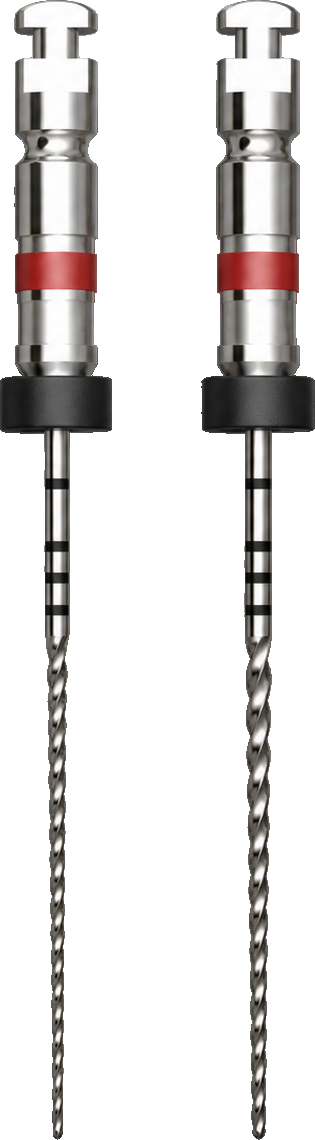
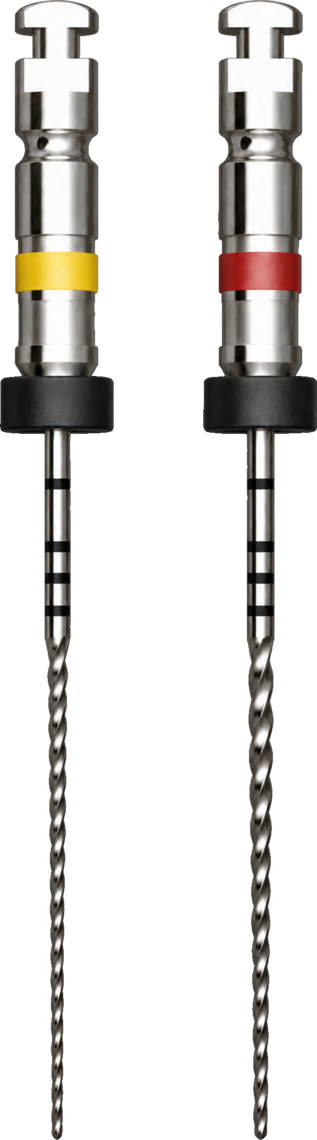
Refine Micro-Path range interaction and sizing

diff --git a/public/product-system-colour.css b/public/product-system-colour.css
@@ -49,15 +49,20 @@ main.et-stitch-page:has(.et-hero-image[alt*="RG"]){--system-a:#8f3341;--system-b
 .microPath-hero-size--15{border-top:3px solid #a45aa7!important}
 .microPath-hero-size--17{border-top:3px solid #d6bd2d!important}
 .microPath-hero-size--mb2{border-top:3px solid #5677b5!important}
-.microPath-hero-size--20{border-top:3px solid #4f9b90!important}
-.microPath-hero-size--25{border-top:3px solid #3f7f9f!important}
+.microPath-hero-size--20{border-top:3px solid #e4c527!important}
+.microPath-hero-size--25{border-top:3px solid #c84b4b!important}
 .microPath-hero-token{display:grid;justify-items:center;gap:8px}
 .microPath-hero-size-pair{display:flex;gap:10px}
 .microPath-hero-meta-note{margin:0;color:#667386;font:600 .68rem/1.2 Inter,"Segoe UI",sans-serif;text-align:center;letter-spacing:0}
 .microPath-hero-visual{position:relative!important}
-.clean-subpage .microPath-hero-visual::after{content:"";display:block!important;position:absolute!important;top:10%!important;right:3%!important;z-index:1;width:24%!important;height:76%!important;background:url("/assets/micropath-vtaper-20-25.png") center/contain no-repeat;pointer-events:none}
+.clean-subpage .microPath-hero-visual::after{content:"";display:block!important;position:absolute!important;top:18%!important;right:3%!important;z-index:1;width:24%!important;height:62%!important;background:url("/assets/micropath-vtaper-20-25.png") center/contain no-repeat;pointer-events:none}
+.clean-subpage .microPath-hero-visual::before{content:var(--file-label,"");display:flex!important;position:absolute!important;top:3%!important;left:var(--file-x,50%)!important;z-index:3;align-items:flex-start;justify-content:center;width:11%!important;height:88%!important;border:1px solid color-mix(in srgb,var(--file-accent,#6c9caf) 48%,transparent);border-radius:999px;padding-top:8px;background:radial-gradient(circle at 50% 34%,color-mix(in srgb,var(--file-accent,#6c9caf) 20%,transparent),transparent 58%),linear-gradient(180deg,color-mix(in srgb,var(--file-accent,#6c9caf) 13%,white),transparent 30% 72%,color-mix(in srgb,var(--file-accent,#6c9caf) 9%,transparent));box-shadow:0 18px 42px color-mix(in srgb,var(--file-accent,#6c9caf) 24%,transparent);color:#173c58;font:700 .66rem/1 Inter,"Segoe UI",sans-serif;letter-spacing:0;opacity:0;transform:translateX(-50%) scale(.94);transition:opacity .18s ease,transform .32s cubic-bezier(.22,1,.36,1);pointer-events:none}
+.clean-subpage .microPath-hero-visual[data-active-file]::before{opacity:1;transform:translateX(-50%) scale(1)}
+.microPath-hero-visual[data-active-file="13"]{--file-x:32.6%;--file-accent:#aeb7c2;--file-label:"13/.03"}.microPath-hero-visual[data-active-file="15"]{--file-x:43.6%;--file-accent:#a45aa7;--file-label:"15/.03"}.microPath-hero-visual[data-active-file="17"]{--file-x:54.5%;--file-accent:#d6bd2d;--file-label:"17/.03"}.microPath-hero-visual[data-active-file="mb2"]{--file-x:65.5%;--file-accent:#5677b5;--file-label:"MB2"}.microPath-hero-visual[data-active-file="20"]{--file-x:80%;--file-accent:#e4c527;--file-label:"20/.03"}.microPath-hero-visual[data-active-file="25"]{--file-x:91%;--file-accent:#c84b4b;--file-label:"25/.03"}
+.microPath-hero-size{cursor:pointer;transition:transform .22s cubic-bezier(.22,1,.36,1),box-shadow .22s ease,border-color .22s ease}.microPath-hero-size:hover,.microPath-hero-size:focus-visible,.microPath-hero-size.is-file-active{transform:translateY(-3px);box-shadow:0 10px 24px rgba(23,60,88,.13)!important;outline:none}
 @media(max-width:720px){.microPath-hero-meta{max-width:354px!important}.microPath-hero-token--paired{width:100%}.microPath-hero-size-pair{justify-content:center}}
-@media(max-width:800px){.clean-subpage .microPath-hero-visual::after{top:12%!important;right:1%!important;height:72%!important}}
+@media(max-width:800px){.clean-subpage .microPath-hero-visual::after{top:20%!important;right:1%!important;height:60%!important}.clean-subpage .microPath-hero-visual::before{top:7%!important;width:14%!important;height:82%!important;padding-top:6px;font-size:.58rem}.microPath-hero-visual[data-active-file="13"]{--file-x:35.4%}.microPath-hero-visual[data-active-file="15"]{--file-x:45.7%}.microPath-hero-visual[data-active-file="17"]{--file-x:56%}.microPath-hero-visual[data-active-file="mb2"]{--file-x:66.3%}.microPath-hero-visual[data-active-file="20"]{--file-x:81.7%}.microPath-hero-visual[data-active-file="25"]{--file-x:92.6%}}
+@media(prefers-reduced-motion:reduce){.microPath-hero-visual::before,.microPath-hero-size{transition:none!important}}
 .nz-micropath-media{max-width:none!important;padding:0!important;background:#fbf8fc!important}
 .nz-micropath-media>section{width:min(1120px,calc(100% - 48px));margin-inline:auto!important;padding-block:64px!important}
 .nz-micropath-media>section:nth-child(2){width:min(1120px,calc(100% - 48px));background:#fff!important;box-shadow:0 0 0 100vmax #fff;clip-path:inset(0 -100vmax)}

diff --git a/public/micropath-range-hover.js b/public/micropath-range-hover.js
@@ -1,0 +1,74 @@
+(() => {
+  const hero = document.querySelector('.microPath-hero');
+  const visual = document.querySelector('[data-micropath-hero-visual], [data-microPath-hero-visual]');
+  if (!(hero instanceof HTMLElement) || !(visual instanceof HTMLElement)) return;
+
+  const files = [
+    ['.microPath-hero-size--13', '13', '13/.03'],
+    ['.microPath-hero-size--15', '15', '15/.03'],
+    ['.microPath-hero-size--17', '17', '17/.03'],
+    ['.microPath-hero-size--mb2', 'mb2', 'MB2 15/.05'],
+    ['.microPath-hero-size--20', '20', '20/.03'],
+    ['.microPath-hero-size--25', '25', '25/.03'],
+  ].map(([selector, key, label]) => ({
+    element: hero.querySelector(selector),
+    key,
+    label,
+  })).filter(({ element }) => element instanceof HTMLElement);
+
+  let pinnedKey = '';
+
+  const show = (key) => {
+    visual.dataset.activeFile = key;
+    files.forEach(({ element, key: itemKey }) => {
+      const active = itemKey === key;
+      element.classList.toggle('is-file-active', active);
+      element.setAttribute('aria-pressed', active ? 'true' : 'false');
+    });
+  };
+
+  const restore = () => {
+    if (pinnedKey) {
+      show(pinnedKey);
+      return;
+    }
+    delete visual.dataset.activeFile;
+    files.forEach(({ element }) => {
+      element.classList.remove('is-file-active');
+      element.setAttribute('aria-pressed', 'false');
+    });
+  };
+
+  files.forEach(({ element, key, label }) => {
+    element.tabIndex = 0;
+    element.setAttribute('role', 'button');
+    element.setAttribute('aria-label', `Highlight the ${label} file above`);
+    element.setAttribute('aria-pressed', 'false');
+
+    element.addEventListener('pointerenter', () => show(key));
+    element.addEventListener('pointerleave', restore);
+    element.addEventListener('focus', () => show(key));
+    element.addEventListener('blur', restore);
+    element.addEventListener('click', () => {
+      pinnedKey = pinnedKey === key ? '' : key;
+      pinnedKey ? show(pinnedKey) : restore();
+    });
+    element.addEventListener('keydown', (event) => {
+      if (event.key === 'Enter' || event.key === ' ') {
+        event.preventDefault();
+        element.click();
+      }
+      if (event.key === 'Escape') {
+        pinnedKey = '';
+        restore();
+        element.blur();
+      }
+    });
+  });
+
+  document.addEventListener('pointerdown', (event) => {
+    if (!pinnedKey || files.some(({ element }) => element.contains(event.target))) return;
+    pinnedKey = '';
+    restore();
+  });
+})();

diff --git a/reviewed-site/products/micro-path/index.html b/reviewed-site/products/micro-path/index.html
@@ -263,7 +263,7 @@ Review the Micro-Path™ range, then move into the central ordering section when
       window.visualViewport?.addEventListener('resize', syncOpenMobileMenuBounds);
       window.visualViewport?.addEventListener('scroll', syncOpenMobileMenuBounds);
     });
-  </script> <link rel="stylesheet" href="/product-contact.css?v=20260928a"><link rel="stylesheet" href="/product-system-colour.css?v=micropath-range-20261001">
+  </script> <script src="/micropath-range-hover.js?v=20261001"></script> <link rel="stylesheet" href="/product-contact.css?v=20260928a"><link rel="stylesheet" href="/product-system-colour.css?v=micropath-hover-20261001">
 <section class="product-local-contact" id="contact" aria-labelledby="local-contact-title">
   <div><p class="product-contact-eyebrow">Local orders &amp; product support</p><h2 id="local-contact-title">Talk to EndoTech NZ.</h2><p>Steve Shepherd · New Zealand</p><address>3c/14 Beaumont St<br>Auckland 1010, New Zealand</address></div>
   <div class="product-contact-actions"><a href="mailto:steveshepherdnz@gmail.com">steveshepherdnz@gmail.com ↗</a><a href="/about/contact/">Contact &amp; support ↗</a></div>
